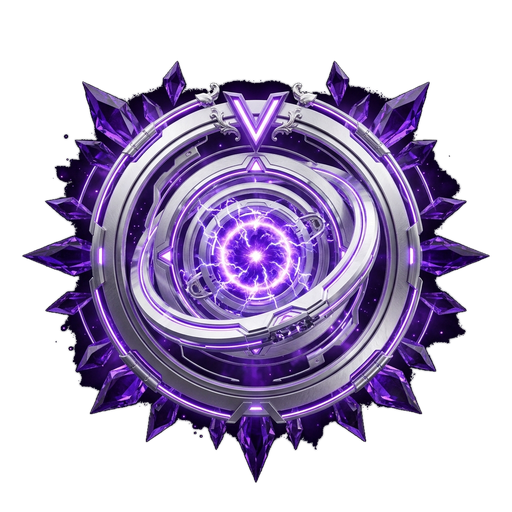
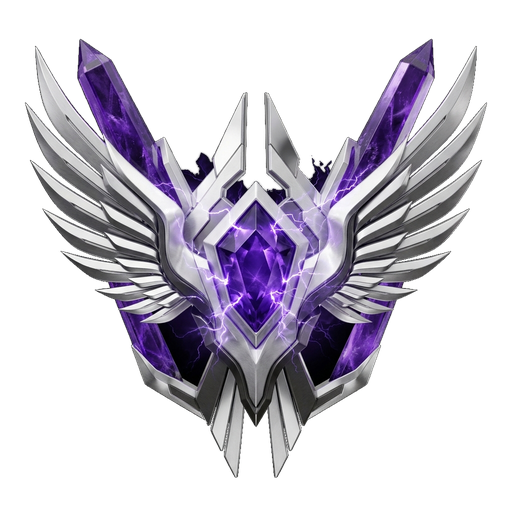
feat(esports): replace L06 circular disc with soaring platinum winged crest and calibrate frost-glass locked tier shader

diff --git a/src/components/shared/BespokeHeraldry.jsx b/src/components/shared/BespokeHeraldry.jsx
@@ -349,63 +349,47 @@ export const HeraldryPlatinum = ({ size = 72, isLocked = false }) => (
     }}
   >
     <defs>
-      <linearGradient id="platChrome" x1="0%" y1="0%" x2="100%" y2="100%">
+      <linearGradient id="platWingL" x1="0%" y1="0%" x2="100%" y2="100%">
         <stop offset="0%" stopColor="#FFFFFF" />
         <stop offset="35%" stopColor="#E2E8F0" />
-        <stop offset="65%" stopColor="#A855F7" />
+        <stop offset="70%" stopColor="#94A3B8" />
+        <stop offset="100%" stopColor="#475569" />
+      </linearGradient>
+      <linearGradient id="platWingR" x1="100%" y1="0%" x2="0%" y2="100%">
+        <stop offset="0%" stopColor="#FFFFFF" />
+        <stop offset="35%" stopColor="#E2E8F0" />
+        <stop offset="70%" stopColor="#94A3B8" />
+        <stop offset="100%" stopColor="#475569" />
+      </linearGradient>
+      <linearGradient id="amethystSpire" x1="0%" y1="0%" x2="100%" y2="100%">
+        <stop offset="0%" stopColor="#FAF5FF" />
+        <stop offset="40%" stopColor="#C084FC" />
+        <stop offset="80%" stopColor="#7E22CE" />
         <stop offset="100%" stopColor="#3B0764" />
       </linearGradient>
-      <radialGradient id="platEnergy" cx="40%" cy="30%" r="70%">
-        <stop offset="0%" stopColor="#F5F3FF" />
-        <stop offset="35%" stopColor="#C084FC" />
-        <stop offset="70%" stopColor="#7E22CE" />
-        <stop offset="100%" stopColor="#1E1B4B" />
+      <radialGradient id="platVioletCore" cx="50%" cy="40%" r="60%">
+        <stop offset="0%" stopColor="#FFFFFF" />
+        <stop offset="35%" stopColor="#E879F9" />
+        <stop offset="70%" stopColor="#A855F7" />
+        <stop offset="100%" stopColor="#3B0764" />
       </radialGradient>
-      <linearGradient id="platSpikes" x1="0%" y1="0%" x2="100%" y2="100%">
-        <stop offset="0%" stopColor="#38BDF8" />
-        <stop offset="50%" stopColor="#A855F7" />
-        <stop offset="100%" stopColor="#6366F1" />
-      </linearGradient>
     </defs>
 
-    {/* Interlocking Platinum Blade Ring Spikes */}
-    {[0, 60, 120, 180, 240, 300].map((angle, i) => {
-      return (
-        <g key={i} transform={`rotate(${angle} 50 50)`}>
-          <polygon points="50,8 55,22 45,22" fill="url(#platSpikes)" stroke="#E0E7FF" strokeWidth="0.8" />
-        </g>
-      )
-    })}
+    {/* Soaring Platinum Razor Wings */}
+    <path d="M12 42 L34 22 L38 52 L20 62 Z" fill="url(#platWingL)" stroke="#FFFFFF" strokeWidth="1" />
+    <path d="M88 42 L66 22 L62 52 L80 62 Z" fill="url(#platWingR)" stroke="#FFFFFF" strokeWidth="1" />
 
-    {/* Orbiting Amethyst Gem Satellites */}
-    <circle cx="20" cy="30" r="3" fill="#C084FC" stroke="#FFFFFF" strokeWidth="0.8" filter="drop-shadow(0 0 6px #C084FC)" />
-    <circle cx="80" cy="30" r="3" fill="#C084FC" stroke="#FFFFFF" strokeWidth="0.8" filter="drop-shadow(0 0 6px #C084FC)" />
-    <circle cx="50" cy="88" r="3.5" fill="#38BDF8" stroke="#FFFFFF" strokeWidth="0.8" filter="drop-shadow(0 0 6px #38BDF8)" />
+    {/* Inset Amethyst Crystal Spires Flanking Core */}
+    <polygon points="32,18 42,38 34,50 26,30" fill="url(#amethystSpire)" stroke="#FAF5FF" strokeWidth="0.8" />
+    <polygon points="68,18 58,38 66,50 74,30" fill="url(#amethystSpire)" stroke="#FAF5FF" strokeWidth="0.8" />
 
-    {/* Central Octagonal Platinum Sol-Disc */}
-    <polygon
-      points="50,18 72,26 84,48 76,74 50,84 24,74 16,48 28,26"
-      fill="url(#platChrome)"
-      stroke="#FAF5FF"
-      strokeWidth="1.8"
-      filter="drop-shadow(0 6px 16px rgba(0,0,0,0.75))"
-    />
-    <polygon
-      points="50,24 68,30 78,48 70,70 50,78 30,70 22,48 32,30"
-      fill="#130826"
-      stroke="#A855F7"
-      strokeWidth="1.2"
-    />
+    {/* Angular Hexagonal Platinum Armor Plate */}
+    <polygon points="50,20 74,34 68,76 50,90 32,76 26,34" fill="#0F172A" stroke="#E2E8F0" strokeWidth="2" />
+    <polygon points="50,28 66,38 62,70 50,80 38,70 34,38" fill="#1E1B4B" stroke="#C084FC" strokeWidth="1" />
 
-    {/* Radiant Violet/Amethyst Core */}
-    <polygon
-      points="50,30 64,40 68,58 50,72 32,58 36,40"
-      fill="url(#platEnergy)"
-      stroke="#F5F3FF"
-      strokeWidth="1.5"
-      filter="drop-shadow(0 0 12px rgba(192, 132, 252, 0.95))"
-    />
-    <circle cx="50" cy="51" r="5" fill="#FFFFFF" filter="drop-shadow(0 0 8px #FFFFFF)" />
+    {/* Ultraviolet Singularity Core */}
+    <polygon points="50,34 64,48 50,68 36,48" fill="url(#platVioletCore)" stroke="#FFFFFF" strokeWidth="1.5" filter="drop-shadow(0 0 14px #C084FC)" />
+    <circle cx="50" cy="50" r="4.5" fill="#FFFFFF" />
   </svg>
 )
 

diff --git a/src/components/shared/TierMedallion.jsx b/src/components/shared/TierMedallion.jsx
@@ -74,7 +74,7 @@ export const TIER_CONFIGS = {
   6: {
     level: 6,
     name: 'Platinum Hero',
-    silhouette: 'Cryo-Amethyst Hyper-Disc with Floating Shards & Ultraviolet Singularity',
+    silhouette: 'Ascendant Platinum-Amethyst Aegis with Soaring Razor Wings & Ultraviolet Core',
     primary: '#C084FC',
     secondary: '#6B21A8',
     light: '#F3E8FF',
@@ -251,10 +251,10 @@ const TierMedallion = ({
     if (isCompleted) {
       return `drop-shadow(0 6px 16px rgba(0,0,0,0.65))`
     }
-    // Locked — smoke-glass preview preserving distinct heraldic crest silhouette
+    // Locked — high-tech frost-glass preview with subtle ambient rim glow
     return isHovered
-      ? `grayscale(0.20) brightness(0.95) contrast(1.15) drop-shadow(0 4px 12px rgba(0,0,0,0.75)) drop-shadow(0 0 10px ${tier.glow})`
-      : `grayscale(0.35) brightness(0.85) contrast(1.18) drop-shadow(0 3px 8px rgba(0,0,0,0.65))`
+      ? `drop-shadow(0 6px 16px rgba(0,0,0,0.85)) drop-shadow(0 0 14px ${tier.glow})`
+      : `drop-shadow(0 4px 12px rgba(0,0,0,0.7))`
   }
 
   return (
@@ -353,8 +353,10 @@ const TierMedallion = ({
                 height: '100%',
                 objectFit: 'contain',
                 pointerEvents: 'none',
-                filter: isLocked && !isHovered
-                  ? 'grayscale(0.4) brightness(0.75) contrast(1.15) drop-shadow(0 4px 10px rgba(0,0,0,0.8))'
+                filter: isLocked
+                  ? isHovered
+                    ? 'brightness(1.05) contrast(1.15) saturate(1.1) drop-shadow(0 0 14px rgba(0, 245, 255, 0.4))'
+                    : 'brightness(0.92) contrast(1.18) saturate(0.85) opacity(0.82) drop-shadow(0 4px 10px rgba(0,0,0,0.7))'
                   : 'drop-shadow(0 8px 18px rgba(0,0,0,0.75))',
                 transition: 'filter 0.3s ease, transform 0.3s ease',
               }}
